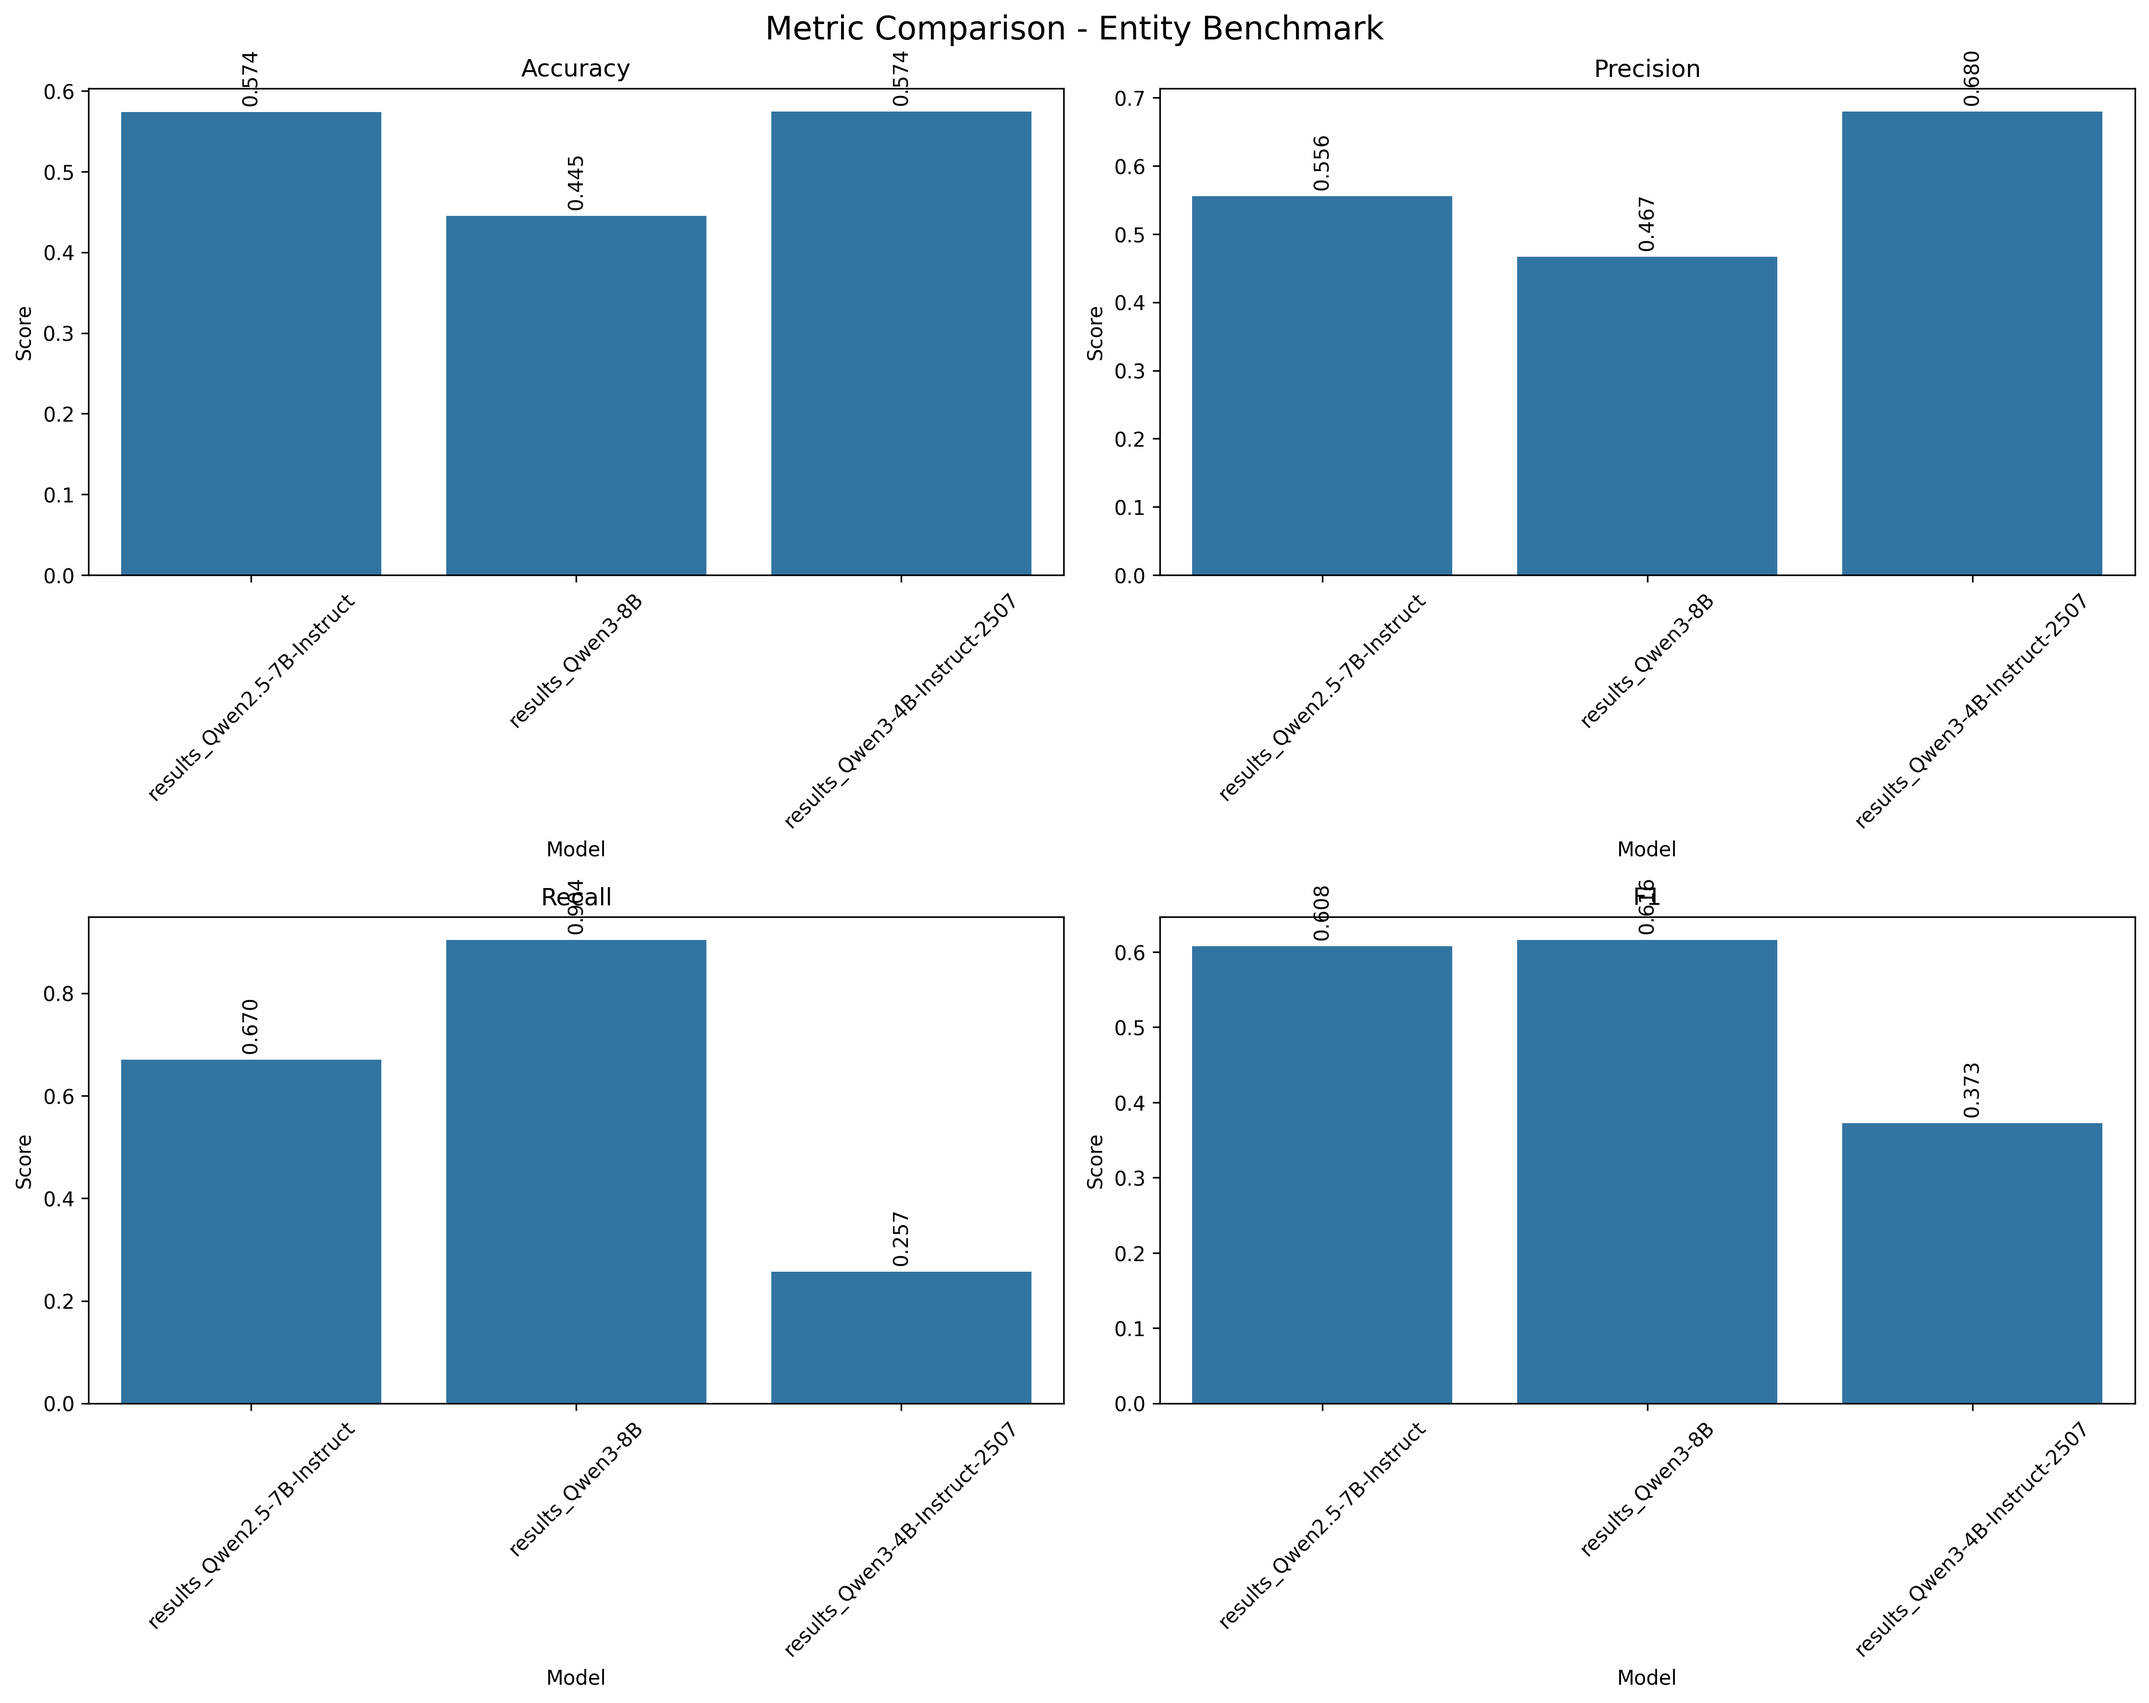
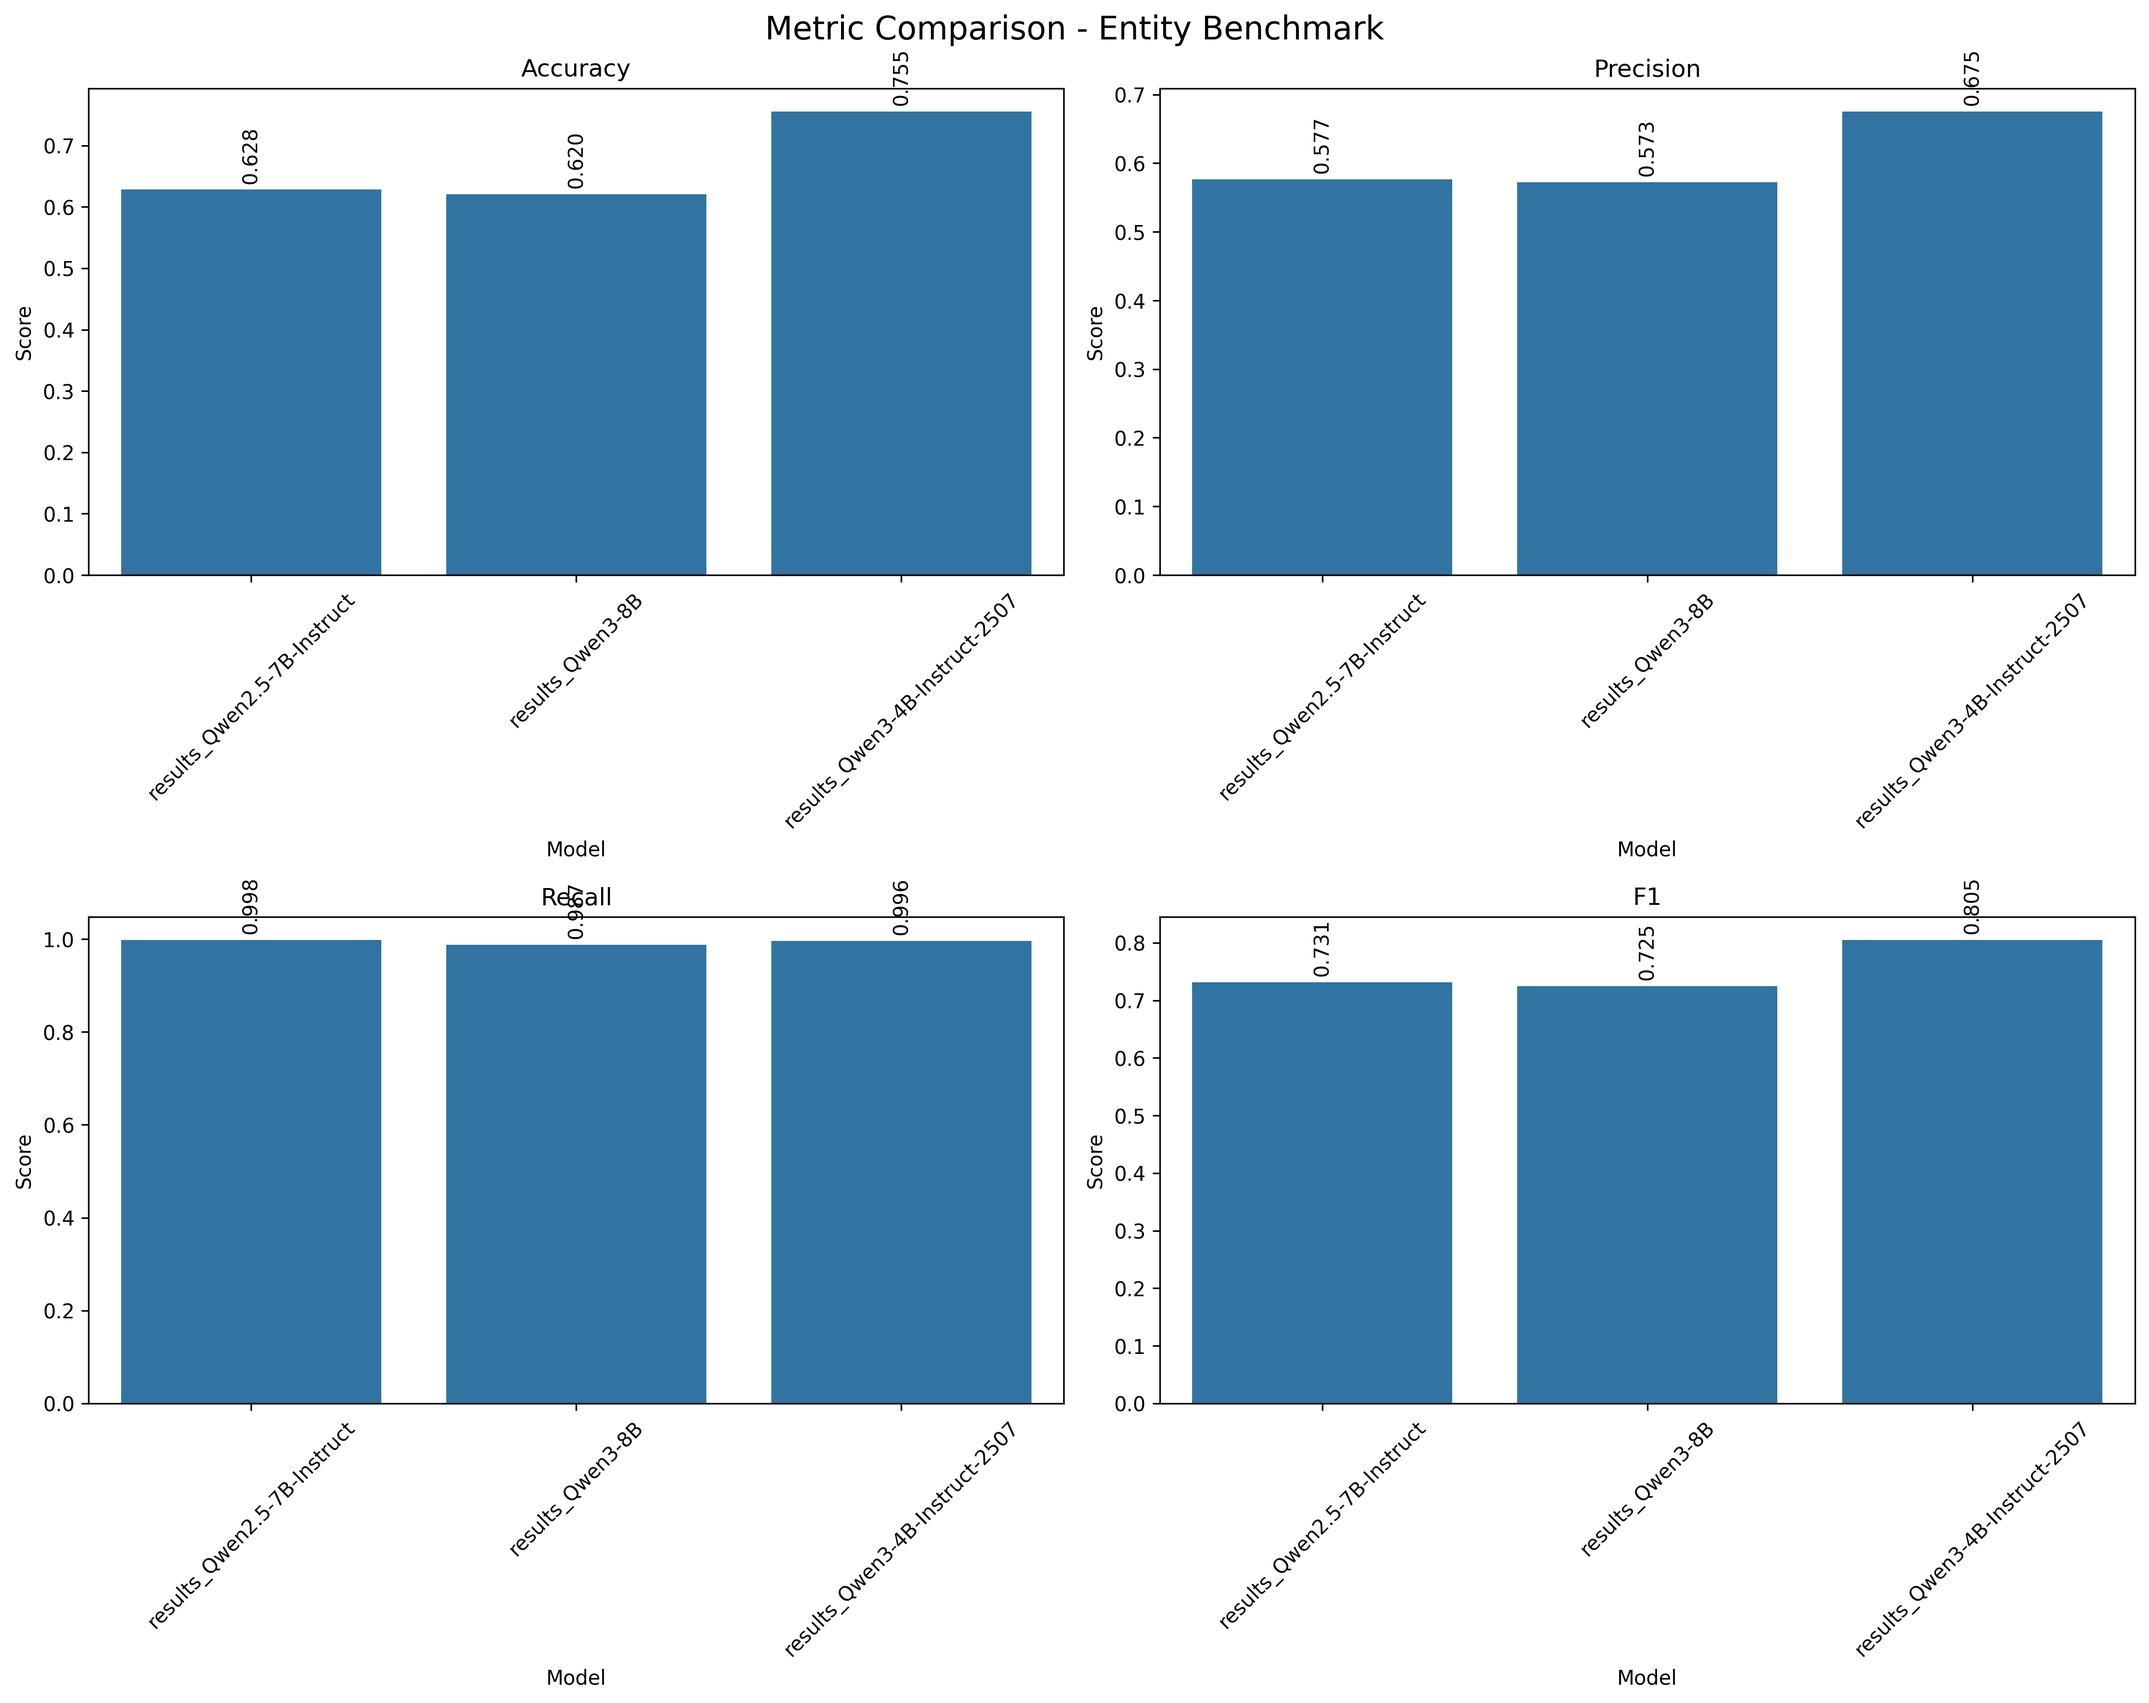
v2 bench results

diff --git a/scripts/models/model_classes.py b/scripts/models/model_classes.py
@@ -284,7 +284,7 @@ class QwenThinkingLLM(LLM):
             # Generate text
             generated_ids = self.model.generate(
                 **model_inputs,
-                max_new_tokens=200
+                max_new_tokens=200 if not self.enable_thinking else None
             )
             
             output_ids = generated_ids[0][len(model_inputs.input_ids[0]):].tolist()
